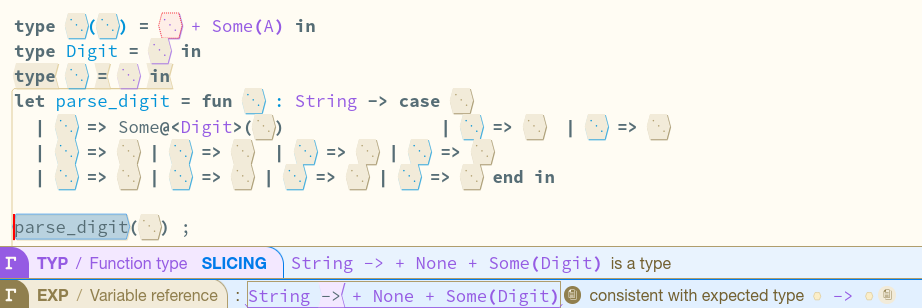
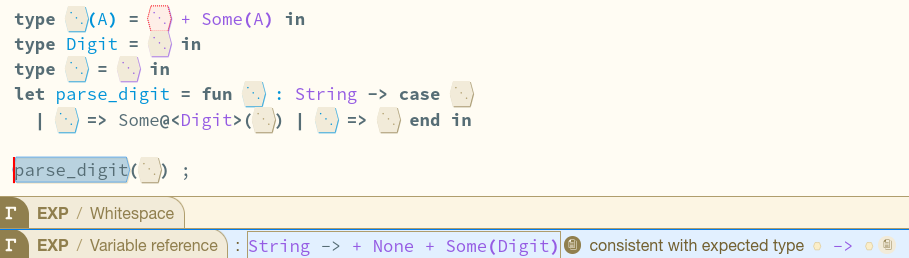
Update UI slicing figures

Changed region(s): [[0.0, 0.0, 1.0, 1.0]]

diff --git a/ui.tex b/ui.tex
@@ -1,184 +1,153 @@
 \section{Type Slicing in Hazel by Example}
 \label{sec:slicing-by-example}
 
-This section previews the slicing apparatus formally introduced in later sections through three worked examples.
-
-\Cref{fig:parse-digit-slices} demonstrates a small example of a function parsing characters to single digits. In \textbf{(a)} the function is queried for its \textit{synthesised} type, \synsrc{\texttt{Char \textrightarrow\ Option Digit}}, which is explained by just taking a single branch from the function, and the corresponding part of the \synsrc{\texttt{Digit}} type.
-
-Secondly, \textbf{(b)} asks why the argument is \textit{required} to be a \anasrc{\texttt{Char}}, explained by an \textit{analysis} slice retaining just the function application and the \anasrc{\texttt{Char}} annotation on the function.
-
-The formal mathematics of these two concepts is introduced in \cref{sec:synthesis,sec:analysis}, developed over a core calculus specified in \cref{sec:core-calculus} which includes sum types, products, and explicit polymorphism.
-
-\begin{figure}[H]
-\centering
-
-\providecommand{\fold}{\gap}
-% Sources of the queried type: synthesis (red) and analysis (blue).
-\providecommand{\synsrc}[1]{\textcolor{BrickRed!60!gray}{#1}}
-\providecommand{\anasrc}[1]{\textcolor{NavyBlue!60!gray}{#1}}
-\providecommand{\synsrcS}[1]{\textcolor{red!85!black}{\textbf{\boldmath\addfontfeature{FakeBold=4.5}#1}}}
-\providecommand{\anasrcS}[1]{\textcolor{blue!85!black}{\textbf{\boldmath\addfontfeature{FakeBold=4.5}#1}}}
-% Purely structural skeleton: single middle shade of green.
-\providecommand{\strN}[1]{\textcolor{OliveGreen!65!black}{#1}}
-\providecommand{\strM}[1]{\textcolor{black!85}{#1}}
-\providecommand{\strF}[1]{\textcolor{black!85}{#1}}
-% Selected (focused) sub-term: soft yellow highlight
-\providecommand{\focusbox}[1]{%
-  \tikz[baseline=(N.base)]{%
-    \node[draw=black!30, line width=0.3pt, rounded corners=2pt,
-          inner sep=2pt, fill=black!10, anchor=base, align=left] (N)
-         {\strut\ttfamily\bfseries #1};%
-  }%
-}
-\providecommand{\offslice}[1]{\textcolor{black!42}{#1}}
+{This section previews type slicing, formally developed in \cref{sec:synthesis,sec:analysis} over the core calculus of \cref{sec:core-calculus}, through two worked examples in the Hazel implementation. Type slicing answers with a \synsrc{synthesis} slice explains why the term \emph{has} its type and an \anasrc{analysis} slice explains why its context \emph{demands} one. Hazel renders each answer by folding away every fragment the queried type does not require.}
 
 \tikzset{
-  codebox/.style={
-    draw=black!55, line width=0.5pt, dotted,
-    rounded corners=2.5pt, inner sep=5pt,
-    align=left, anchor=north,
-    font=\ttfamily\scriptsize,
-  },
-  querybox/.style={
-    draw=black!55, line width=0.5pt, dotted,
-    rounded corners=2.5pt, inner sep=5pt,
-    font=\scriptsize, align=center,
-    fill=black!2,
-  },
-  artyarrow/.style={
-    -{Stealth[length=2.8mm, width=2.2mm]},
-    line width=0.7pt, color=black!55,
-    decorate, decoration={
-      snake, amplitude=0.6mm, segment length=2.7mm,
-      pre length=2mm, post length=2.5mm,
-    },
-  },
-  arrowlbl/.style={
-    font=\itshape\scriptsize, color=black!60,
-    fill=white, inner sep=1.5pt,
-  },
+  cobase/.style={font=\scriptsize\sffamily, align=left, inner sep=2pt,
+    rounded corners=1.5pt, fill=white, fill opacity=0.9, text opacity=1,
+    line width=0.5pt},
+  synco/.style={cobase, draw=NavyBlue, text=NavyBlue!75!black},
+  anaco/.style={cobase, draw=OliveGreen!70!black, text=OliveGreen!45!black},
+  foldco/.style={cobase, draw=black!45, text=black!55},
+  errco/.style={cobase, draw=BrickRed, text=BrickRed!85!black},
+  synl/.style={-{Stealth[length=1.5mm]}, line width=0.5pt, NavyBlue},
+  anal/.style={-{Stealth[length=1.5mm]}, line width=0.5pt, OliveGreen!70!black},
+  foldl/.style={-{Stealth[length=1.5mm]}, line width=0.5pt, black!45},
+  errl/.style={-{Stealth[length=1.5mm]}, line width=0.5pt, BrickRed},
 }
+\newcommand{\foldarrow}[1]{\par\vspace{0.7mm}%
+  {\footnotesize\sffamily\color{black!55}$\big\Downarrow$\ \ #1}\par\vspace{0.7mm}}
 
-\begin{subfigure}[t]{0.48\textwidth}
+\begin{figure}[t]
 \centering
-{\textsc{\large\bfseries Synthesis slice}}\par
-\smallskip
 
 \begin{tikzpicture}
-\node[codebox] (orig) at (0,0.0) {%
-\strN{type} \asmref{Option}\synsrc{(A)} \strN{=} \synsrc{Some(A)} \strM{|} \offslice{None}\\
-\strN{type} \asmref{Digit} \strN{=} \synsrc{Zero} \strM{|} \offslice{One | Two | $\cdots$ | Nine}\\
-\strN{let} \asmref{parse\_digit} \strN{=} \synsrcS{fun} \offslice{c} \strM{:} \synsrcS{Char} \synsrcS{-\textgreater}\\
-\quad\strM{case} \offslice{c} \strM{of}\\
-\qquad\strF{|} \offslice{'0'} \strF{=\textgreater} \synsrcS{Some Zero}\\
-\qquad\offslice{| '1' =\textgreater\ Some One}\\
-\qquad\offslice{$\;\;\vdots$}\\
-\qquad\offslice{| '9' =\textgreater\ Some Nine}\\
-\qquad\offslice{| \_\ \ =\textgreater\ None}\\
-\strN{in} \focusbox{\synsrc{parse\_digit}}\strN{(}\offslice{'5'}\strN{)}%
-};
-
-\path let \p1=(orig.north west), \p2=(orig.north east) in
-  node[querybox, anchor=south west, text width={\x2-\x1-10pt}]
-    (queryBox) at (\p1)
-    {{\bfseries\itshape\color{black!55}select }\synsrc{\texttt{parse\_digit}}\\
-     {\bfseries\itshape\color{black!55}query }$\upsilon$ = \synsrc{\texttt{Char \textrightarrow\ Option Digit}}};
-
-\node[codebox, below=14mm of orig] (fold) {%
-\strN{type} \asmref{Option}\synsrc{(A)} \strN{=} \synsrc{Some(A)} \strM{|} \fold\\
-\strN{type} \asmref{Digit} \strN{=} \synsrc{Zero} \strM{|} \fold\\
-\strN{let} \asmref{parse\_digit} \strN{=} \synsrcS{fun} \fold{} \strM{:} \synsrcS{Char} \synsrcS{-\textgreater}\\
-\quad\strM{case} \fold{} \strM{of}\\
-\qquad\strF{|} \fold{} \strF{=\textgreater} \synsrcS{Some Zero}\\
-\qquad\strF{|} \fold\\
-\strN{in} \focusbox{\synsrc{parse\_digit}}\strN{(}\fold\strN{)}%
-};
-
-\draw[artyarrow] (orig.south) -- node[arrowlbl] {fold} (fold.north);
-
-% Enforce a fixed bounding box; identical coords in both subfigures guarantee
-% the code segments and captions line up horizontally.
-\useasboundingbox (-3.8,1.5) rectangle (3.8,-8.0);
+\node[anchor=south west, inner sep=0] (img) at (0,0)
+  {\includegraphics[width=0.9\linewidth]{media/syn-parse-digit.png}};
+\draw[black!35, line width=0.35pt] (img.south west) rectangle (img.north east);
+\begin{scope}[x={(img.south east)},y={(img.north west)}]
+  \node[synco] (a1) at (0.72,0.205) {select \texttt{parse\_digit}};
+  \draw[synl] (a1.west) -- (0.155,0.205);
+  \node[synco] (a2) at (0.75,0.125) {synthesised type};
+  \draw[synl] (a2) -- (0.52,0.05);
+\end{scope}
 \end{tikzpicture}
 
-\caption{\texttt{parse\_digit} synthesises type \synsrc{\texttt{Char → Option Digit}}.}\label{fig:syn-parse-digit}
-\end{subfigure}\hfill
-\begin{subfigure}[t]{0.48\textwidth}
-\centering
-{\textsc{\large\bfseries Analysis slice}}\par
-\smallskip
+\foldarrow{fold to the synthesis slice}
 
 \begin{tikzpicture}
-\node[codebox] (orig) at (0,0) {%
-\offslice{type Option(A) = Some(A) | None}\\
-\offslice{type Digit = Zero | One | Two | $\cdots$ | Nine}\\
-\strN{let} \asmref{parse\_digit} \strN{=} \anasrc{fun} \offslice{c} \strM{:} \anasrcS{Char} \anasrc{-\textgreater}\\
-\quad\offslice{case c of}\\
-\qquad\offslice{| '0' =\textgreater\ Some Zero}\\
-\qquad\offslice{| '1' =\textgreater\ Some One}\\
-\qquad\offslice{$\;\;\vdots$}\\
-\qquad\offslice{| '9' =\textgreater\ Some Nine}\\
-\qquad\offslice{| \_\ \ =\textgreater\ None}\\
-\strN{in} \anasrc{parse\_digit}\anasrc{(}\focusbox{'5'}\anasrc{)}%
-};
-
-\path let \p1=(orig.north west), \p2=(orig.north east) in
-  node[querybox, anchor=south west, text width={\x2-\x1-10pt}]
-    (queryBox) at (\p1)
-    {{\bfseries\itshape\color{black!55}select }\anasrc{\texttt{'5'}}\\
-     {\bfseries\itshape\color{black!55}query }$\upsilon$ = \anasrc{\texttt{Char}}};
-
-\node[codebox, below=14mm of orig] (fold) {%
-\fold\\
-\fold\\
-\strN{let} \asmref{parse\_digit} \strN{=} \anasrc{fun} \fold{} \strM{:} \anasrcS{Char} \anasrc{-\textgreater} \fold\\
-\strN{in} \anasrc{parse\_digit}\anasrc{(}\focusbox{\fold{}}\anasrc{)}%
-};
-
-\draw[artyarrow] (orig.south) -- node[arrowlbl] {fold} (fold.north);
-
-% Same bounding box
-\useasboundingbox (-3.8,1.5) rectangle (3.8,-8.0);
+\node[anchor=south west, inner sep=0] (img) at (0,0)
+  {\includegraphics[width=0.9\linewidth]{media/synslice-parse-digit.png}};
+\draw[black!35, line width=0.35pt] (img.south west) rectangle (img.north east);
 \end{tikzpicture}
 
-\caption{\texttt{'5'} analyses against type \anasrcS{\texttt{Char}}.}\label{fig:ana-parse-digit}
+\caption{Synthesis slicing for \synsrc{\texttt{parse\_digit}}. Selecting the
+reference and querying its synthesised type \synsrc{\texttt{String → Option
+Digit}} folds the function to the fragments that \emph{source} that type.}
+\label{fig:parse-digit-slices}
+\label{fig:parse-digit-synthesis}
+\end{figure}
+
+\Cref{fig:parse-digit-synthesis} slice a small character parser. The synthesis slice folds the whole function to just the \texttt{String} domain annotation, and the first branch determining the result option type, discarding all other branches.
+
+Queries may target \emph{part} of a reported type: asking only about the domain \synsrc{\texttt{String → \fold}} shrinks the slice to exclude the entire function body. This is the minimal \textit{analysis} slice which enforces \anasrc{\texttt{String}} on the argument (\cref{fig:parse-digit-analysis}).
+\begin{figure}[h]
+\centering
+
+\begin{subfigure}[t]{0.49\linewidth}
+\centering
+\begin{tikzpicture}
+\node[anchor=south west, inner sep=0] (img) at (0,0)
+  {\includegraphics[width=\linewidth, trim={0 28pt 170pt 0}, clip]{media/synslice-parse-digit-no-result.png}};
+\draw[black!35, line width=0.35pt] (img.south west) rectangle (img.north east);
+\begin{scope}[x={(img.south east)},y={(img.north west)}]
+  \node[synco] (d1) at (0.64,0.32) {result type folded};
+  \draw[synl] (d1.south east) -- (0.72,0.10);
+\end{scope}
+\end{tikzpicture}
+\caption{Querying only the domain of \synsrc{\texttt{parse\_digit}}.}
+\label{fig:parse-digit-domain-query}
+\end{subfigure}\hfill%
+\begin{subfigure}[t]{0.49\linewidth}
+\centering
+\begin{tikzpicture}
+\node[anchor=south west, inner sep=0] (img) at (0,0)
+  {\includegraphics[width=\linewidth]{media/anaslice-arg.png}};
+\draw[black!35, line width=0.35pt] (img.south west) rectangle (img.north east);
+\begin{scope}[x={(img.south east)},y={(img.north west)}]
+  \node[anaco] (c1) at (0.80,0.42) {selected argument};
+  \draw[anal] (c1.west) -- (0.30,0.42);
+  \draw[anal, {Stealth[length=1.5mm]}-, out=-90, in=-90, looseness=1.4]
+    (0.57,0.585) to (0.30,0.44);
+  \node[anaco] (c2) at (0.72,0.66) {expected \texttt{String}\\ from the annotation};
+  \draw[anal] (c2.west) -- (0.575,0.60);
+\end{scope}
+\end{tikzpicture}
+\caption{Explaining the expected type of the argument.}
+\label{fig:parse-digit-argument-analysis}
 \end{subfigure}
 
-\medskip
+\caption{Partial synthesis and analysis slicing for \synsrc{\texttt{parse\_digit}}.
+Querying only the function domain folds the result type; selecting the argument
+and querying why it must be a \anasrc{\texttt{String}} keeps only the application
+and the domain annotation.}
+\label{fig:parse-digit-analysis}
+\end{figure}
+\begin{figure}[t]
+\centering
+
 \begin{tikzpicture}
-\node[draw=black!40, line width=0.4pt, rounded corners=2.5pt,
-      inner sep=5pt, fill=black!2, font=\scriptsize] (lg2) {%
-  \begin{tabular}{@{}r@{\,:\ }>{\raggedright\arraybackslash}p{5.2cm}@{}}
-    \focusbox{selected}          & The selected term \\
-    \synsrc{\texttt{synthesis}}  & Slice explaining why the selected term\newline has queried type parts. \\
-    \anasrc{\texttt{analysis}}   & Slice explaining why the surrounding context enforces queried type parts. \\
-    \offslice{\texttt{omitted}}  & Omitted from slice (shown) \\
-    \fold                        & Omitted from slice (folded) \\
-  \end{tabular}%
-};
-\node[draw=black!40, line width=0.4pt, rounded corners=2.5pt,
-      inner sep=5pt, fill=black!2, font=\scriptsize,
-      anchor=north west] (lg1) at ([xshift=8pt]lg2.north east) {%
-  \begin{tabular}{@{}r@{\,:\ }>{\raggedright\arraybackslash}p{5.2cm}@{}}
-    \strN{\texttt{structural}}\,\textsuperscript{\ref{fn:typesrc}} & Required to form a valid program slice,\newline but irrelevant to the type. \\
-    \asmref{binding}            & Used assumptions whose bodies are recursively sliced. \\
-    \synsrcS{bold}\,/\,\anasrcS{bold}\,\textsuperscript{\ref{fn:typesrc}} & Root sources of queried type information. \\
-  \end{tabular}%
-};
+\node[anchor=south west, inner sep=0] (img) at (0,0)
+  {\includegraphics[width=0.98\linewidth]{media/extended-error.png}};
+\draw[black!35, line width=0.35pt] (img.south west) rectangle (img.north east);
+\begin{scope}[x={(img.south east)},y={(img.north west)}]
+  \node[errco] (e1) at (0.83,0.32) {selected literal synthesises\\
+    \texttt{Digit → String → Option(\ldots)}};
+  \draw[errl] (e1) -- (0.575,0.195);
+  \node[anaco] (e2) at (0.45,0.135) {\ldots but its position demands\\
+    \texttt{Digit → Option((String, Pin))}};
+  \draw[anal] (e2) -- (0.66,0.035);
+  \node[errco] (e3) at (0.77,0.135) {press \emph{Explain error}};
+  \draw[errl] (e3) -- (0.925,0.035);
+\end{scope}
 \end{tikzpicture}
 
-\caption{Parsing a character into an \synsrc{\texttt{Option Digit}}.}
-\label{fig:parse-digit-slices}
+\foldarrow{explain the error}
+
+\begin{tikzpicture}
+\node[anchor=south west, inner sep=0] (img) at (0,0)
+  {\includegraphics[width=0.88\linewidth]{media/extended-explained-error.png}};
+\draw[black!35, line width=0.35pt] (img.south west) rectangle (img.north east);
+\begin{scope}[x={(img.south east)},y={(img.north west)}]
+  \node[anaco] (f1) at (0.62,0.60) {source of the expected type:\\
+    \texttt{seq}'s annotation \texttt{A → Option((String, B))}};
+  \draw[anal] (f1.west) -- (0.30,0.585);
+  \node[errco] (f2) at (0.60,0.245) {the error: a mis-shaped literal};
+  \draw[errl] (f2.west) -- (0.37,0.245);
+  \node[foldco] (f3) at (0.70,0.43) {everything else\\folds away};
+  \draw[foldl] (f3.west) -- (0.52,0.45);
+\end{scope}
+\end{tikzpicture}
+
+\caption{Explaining a type error in a twenty-line parser combinator. The inner
+function literal is marked because its synthesised \synsrc{\texttt{Digit → String →
+Option(\ldots)}} is inconsistent with the \anasrc{\texttt{Digit → Option((String,
+Pin))}} its position demands. \emph{Explain error} collapses the program to the
+offending literal and the annotation on \texttt{seq} that is the source of the
+expectation.}
+\label{fig:explain-error}
 \end{figure}
-\refstepcounter{footnote}\label{fn:typesrc}%
-\footnotetext{The distinction between purely structural parts of a slice and bolded type sources is not formalised, but is easy to implement in practice by tagging the leaves of the derivations during slicing.}
 
-TODO: Simplify example 2 from dissertation into a more visual Hazel example with less prose. Max one page
+{\Cref{fig:explain-error} considers a much more complex error where a sequencing parser combinator has been defined incorrectly, but used correctly. As is usual, the error has been incorrectly localised to the usage site, trusting the (incorrect) annotation. Specifically, \texttt{seq}'s continuation is annotated as if it returns an \texttt{Option} immediately, rather than first accepting the remaining \texttt{String} threaded out of the previous parser. The use site provides the intended parser continuation.
 
-\Cref{sec:marking} concerns the formal theory applying type slicing to ill-typed programs with error marks, allowing for debugging of static type errors.
+\emph{Explain error} queries the slices by taking the outermost inconsistency in the types (the function vs the option in the return type). The resulting slice collapses the program to include only the function shape of the continuation and the offending annotation.
 
+Crucially, the slice did not assume the annotation is ground truth. It shows the user why both the expectation's \emph{source} (the annotation) and the \emph{usage} (the function), leaving the programmer to judge which is wrong. This is justified as programmers often add annotations incorrectly to existing code (49\% of the time~\cite{TypeAnnotationStudy}).} Should the user instead wish to trust the context unilaterally, they can simply only consider the synthesis slice (ignoring the annotations). \Cref{sec:marking} makes this precise, applying slicing to marked ill-typed programs.
+
+{The user interface is relatively primitive, only folding sliced-away code. Further directions are considered in \cref{sec:future-ui}, such as highlighting \textit{sources} of type information (i.e. the annotation) in order to distinguish these from the `spine' of the program around the selected term (required only to make it syntactically well-formed).}
 
 %%% Local Variables:
 %%% mode: LaTeX
-%%% TeX-master: "PolymorphicTypeSlicing"
+%%% TeX-master: "main"
 %%% End:
